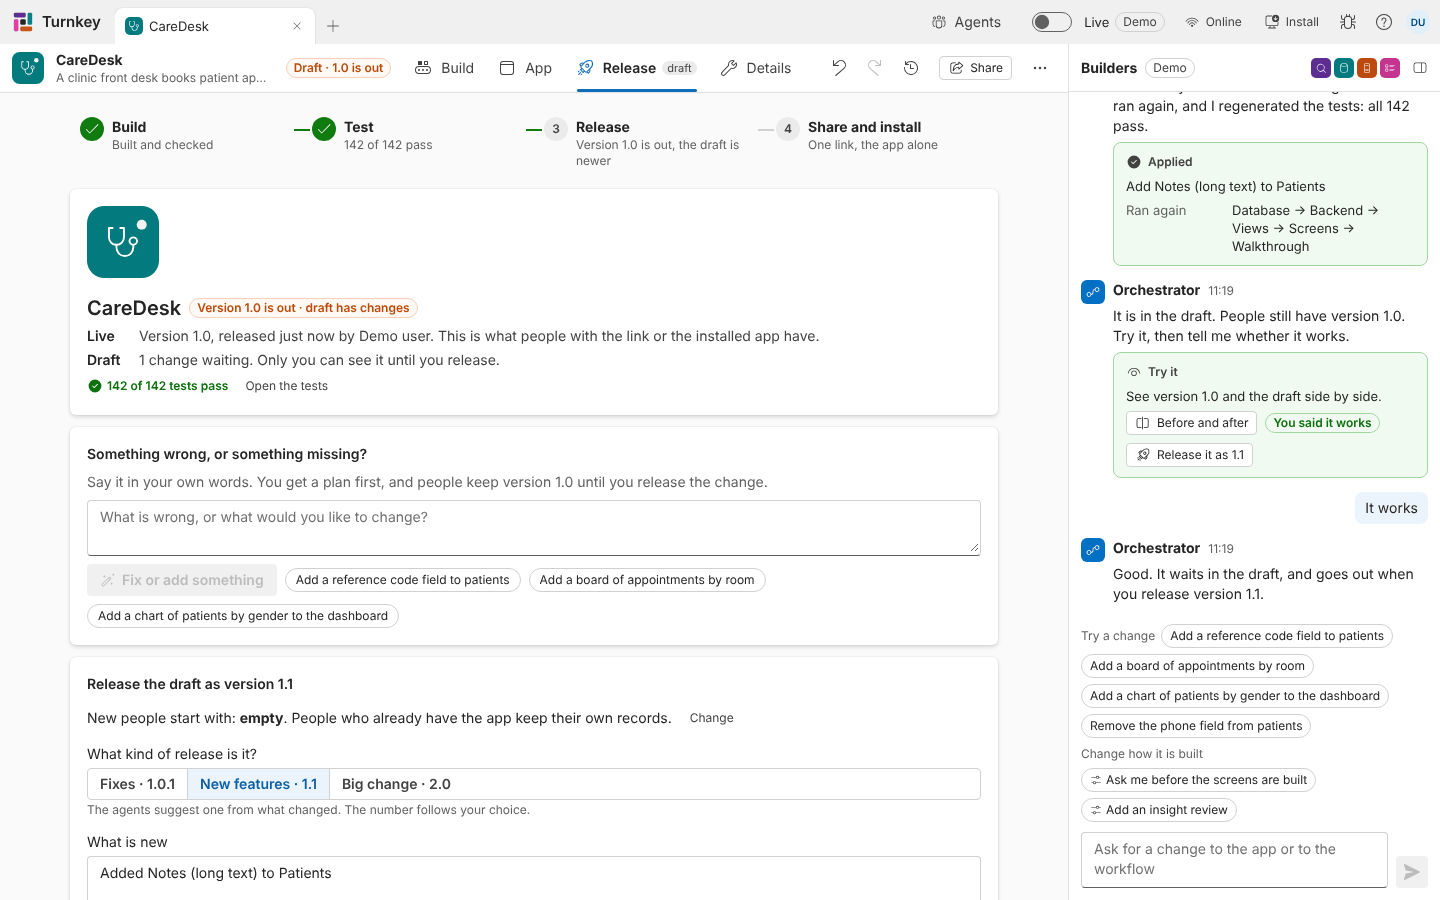
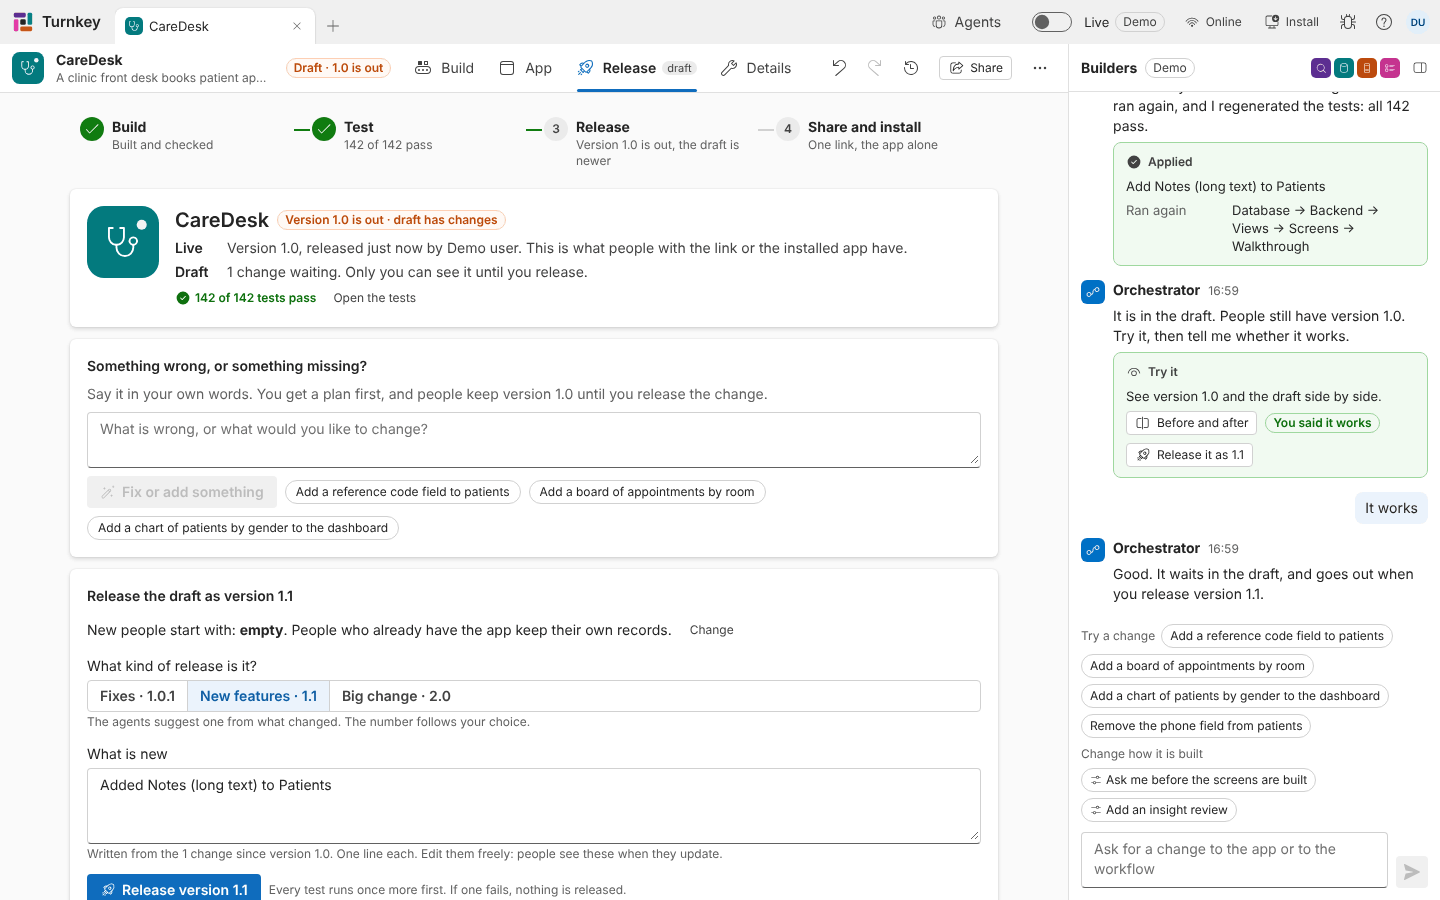
Submission docs and pictures cover changing and releasing again
README, demo video script and submission checklist now show Change something on the finished build,
the change box before 1.0, and Release again without changes. Guided screenshots retaken, plus a new
release-again picture. readme-media.mjs: ONLY=guided now copies its pictures into docs/images.

Claude-Session: https://claude.ai/code/session_01SPhXm6HBwMcyjUc3MWNpJW

diff --git a/README.md b/README.md
@@ -3,7 +3,8 @@
 Describe the app your work needs in one sentence. Turnkey asks you a few questions, shows you a plan in plain words,
 and builds the app only when you press **Build it**: a team of agents makes its lists, rules, screens and tests, checks
 each other's work, and hands it over as a working app with its own welcome for each person who uses it. After the
-first release you say what is wrong or missing, get a plan first, and release the fix as the next version.
+first build you can say what is wrong or missing at any time, get a plan first, and release the change as the next
+version.
 Solo entry for the SSI Agent-A-Thon 2026.
 
 **Live app:** https://turnkey-bay.vercel.app/ (no login; **Demo** replays saved builds and calls no model)
@@ -24,13 +25,16 @@ doctors` and press Enter. (With **Live** off in the title bar this replays the s
 3. **The plan.** Who uses it, what it keeps, how an appointment moves, who can see and do what, and which agents will
    build it. Nothing is built until you press **Build it**.
 4. **The build.** The Build tab shows one line per step and the agent doing it, turning from Working to Done. One
-   part is sent back by the checks and fixed. All 142 checks pass.
+   part is sent back by the checks and fixed. All 142 checks pass. **Change something** beside Open the app takes you
+   straight to the change box, before or after the first release.
 5. **First use.** Open the **App** tab and sign in as Sara Malik: the app welcomes her as a receptionist, lists what
    she can do, and offers a one-minute tour. The made-up records are marked **Demo**; **Remove demo data** empties
    the lists in one step (and can be undone).
 6. **Release and fix.** On **Release**, release version 1.0. Under "Something wrong, or something missing?", type or
    pick **Add a notes field to patients**. You get a plan first, the change waits in a draft that only you see, and
-   after **It works** you release it as version 1.1. People with the link keep 1.0 until then.
+   after **It works** you release it as version 1.1. People with the link keep 1.0 until then. The Release page
+   always offers the next version: with nothing changed it explains how, and **Release again without changes** asks
+   only for a reason.
 
 <table>
   <tr>
@@ -42,7 +46,7 @@ doctors` and press Enter. (With **Live** off in the title bar this replays the s
     <td><em>The plan in plain words. Nothing is built until the owner presses Build it.</em></td>
   </tr>
   <tr>
-    <td><img src="docs/images/build-steps.png" alt="CareDesk is built: seven steps, each with its agent and what it made, all Done, 142 checks pass, and the agents' cards in the chat"></td>
+    <td><img src="docs/images/build-steps.png" alt="CareDesk is built: seven steps, each with its agent and what it made, all Done, 142 checks pass, Open the app and Change something, and the agents' cards in the chat"></td>
     <td><img src="docs/images/first-use.png" alt="The built CareDesk app: a welcome for Sara, the receptionist, with what she can do, Book your first appointment and Show me around, above a demo data bar with Remove demo data"></td>
   </tr>
   <tr>
@@ -56,6 +60,14 @@ doctors` and press Enter. (With **Live** off in the title bar this replays the s
   <tr>
     <td><em>A change after 1.0 goes to a draft. The owner tries it, says it works, and picks the kind of release.</em></td>
     <td><em>Every release keeps its tests and notes, and the owner can go back to an earlier one.</em></td>
+  </tr>
+  <tr>
+    <td><img src="docs/images/release-again.png" alt="The Release page after version 1.1 with nothing in the draft: a Release a new version card that says how to get to 1.1.1 or 1.2, with Release again without changes, above Share and install and the Versions list"></td>
+    <td><img src="docs/images/demo-data-removed.png" alt="The built CareDesk app after Remove demo data: the bar says the lists are empty and ready for real records, with Undo"></td>
+  </tr>
+  <tr>
+    <td><em>The owner can always release again. With nothing changed, the page says how to get to the next version.</em></td>
+    <td><em>Demo data goes in one step, and the app is ready for real records.</em></td>
   </tr>
 </table>
 
@@ -178,7 +190,9 @@ _The Bid room of the built BidDesk app, with the three agents' verdict for one t
 3. Read the plan: three kinds of people, three lists with their fields, six stages, a table of who can see and do
    what, and the agents that will build it. Press **Build it**.
 4. The **Build** tab lists seven steps with the agent of each. The List builder's first attempt is sent back and fixed,
-   the Access checker leaves one suggestion in chat, and all 142 checks pass. **Show how it was built** opens the same run as a workflow canvas, timeline, log and meeting.
+   the Access checker leaves one suggestion in chat, and all 142 checks pass. **Show how it was built** opens the same
+   run as a workflow canvas, timeline, log and meeting; **Change something** opens the change box on Release, which
+   works before version 1.0 too.
 5. Open **App**, sign in as Sara Malik (receptionist). Her welcome lists what she can do; **Show me around** is a
    four-stop tour. Pick someone else under **Preview as** to see the welcome for their job. **Remove demo data**
    empties the lists in one step, and the tests still pass; **Undo** brings the records back.
@@ -186,7 +200,8 @@ _The Bid room of the built BidDesk app, with the three agents' verdict for one t
    press **Add a notes field to patients**. The Orchestrator says it is a new feature, shows a plan, and builds it
    only after **Go ahead**. The change waits in a draft: compare **Before and after**, press **It works**, then
    **Release it as 1.1**. The release offers Fixes 1.0.1, New features 1.1 or Big change 2.0, and the Versions list
-   keeps both releases with **Go back to this**.
+   keeps both releases with **Go back to this**. Above them, "Release a new version" explains what comes next, and
+   **Release again without changes** puts out 1.1.1 once you give a reason.
 
 **Part 2: the agents' teamwork in detail (about three minutes).**
 
@@ -226,7 +241,8 @@ session is capped at 40 model calls.
   skips the ones it does not need. Each built app opens with a welcome and a short tour for each kind of person, demo
   data that is marked and can be removed or added back, and empty screens that say what to do first. After a release,
   "Something wrong, or something missing?" gives a plan, a draft only the owner sees, a try-it step and the next
-  version (1.0.1, 1.1 or 2.0).
+  version (1.0.1, 1.1 or 2.0). The change box is there before the first release too, the finished build has a
+  **Change something** button, and the owner can always release again.
 - **Workspace:** a Build tab that opens on a plain list of steps (one row for each job and the agent that does it),
   with the workflow canvas, timeline, log and meeting view behind "Show how it was built"; edits to fields and the look on the canvas that
   re-run only the stations they touch; Agents panel and a "How it works" page; chat sidebar with the
@@ -258,9 +274,9 @@ the cheaper model tier. `/api/health` shows the calls and the spend so far.
 
 ## Submission summary
 
-> Turnkey turns one sentence into a working business app. A Planner agent asks a few questions and shows a plain-words plan; once the owner approves, code picks the team (lists, rules, views, screens, tests, access) and a LangGraph workflow streams every step over AG-UI. Code checks each handoff and sends failed work back; failing tests go back for repair. Each app opens with a welcome per role and removable demo data. After release 1.0, a fix gets a plan, a draft and release 1.1. Built apps can carry agent teams that search public sources. Demo mode needs no model.
+> Turnkey turns one sentence into a working business app. A Planner agent asks a few questions and shows a plain-words plan; once the owner approves, code picks the team (lists, rules, views, screens, tests, access) and a LangGraph workflow streams every step over AG-UI. Code checks each handoff and sends failed work back; failing tests go back for repair. Each app opens with a welcome per role and removable demo data. Any later change gets a plan and a draft, then ships as 1.1. Built apps can carry agent teams that search public sources. Demo mode needs no model.
 
-(Counted: 570 characters.) Evidence for each rule and criterion: [`docs/hackathon/criteria.md`](docs/hackathon/criteria.md).
+(Counted: 568 characters.) Evidence for each rule and criterion: [`docs/hackathon/criteria.md`](docs/hackathon/criteria.md).
 
 ## More documents
 

diff --git a/docs/hackathon/demo-video.md b/docs/hackathon/demo-video.md
@@ -26,11 +26,11 @@ Times are targets. The voice-over is written to be read at a normal pace; cut li
 | 1   | 0:00–0:10 | Welcome screen. Hold on the headline, then press **Describe your own**.                                                                                                                                                                            | "Most teams need small business apps: a clinic desk, a leave form, a helpdesk. Turnkey builds one from one sentence, and you don't need to know how apps are made."                                 | Business value                |
 | 2   | 0:10–0:25 | Type `A clinic books appointments for patients with its doctors`, press Enter. The steps bar shows Questions; the Planner's card asks "Should the front desk be able to read visit notes?" with the usual choice marked.                           | "First, the Planner agent says what it understood and asks only what changes the app. Each question has a usual choice, and I can skip any of them."                                                | Creativity, human in the loop |
 | 3   | 0:25–0:40 | Pick the usual choice, then "Yes, add demo data". The plan fills in: who uses it, what it keeps, how an appointment moves, who can see and do what, the agents that will build it.                                                                 | "The plan is in plain words: three kinds of people, three lists, six stages, and a table of who can see what. Code picks the team from the plan, and nothing is built until I say so."              | Multi-agent orchestration     |
-| 4   | 0:40–1:00 | Press **Build it**. The seven steps turn from Working to Done, each with its agent; the chat fills with their cards. Hold on "CareDesk is built. Every check passes."                                                                              | "Each agent does one job and hands it on. Code checks every hand-off: here the List builder's first try was sent back and fixed. All 142 checks pass before the app is called ready."               | Agents check each other       |
+| 4   | 0:40–1:00 | Press **Build it**. The seven steps turn from Working to Done, each with its agent; the chat fills with their cards. Hold on "CareDesk is built. Every check passes." and its **Open the app** and **Change something** buttons.                   | "Each agent does one job and hands it on. Code checks every hand-off: here the List builder's first try was sent back and fixed. All 142 checks pass before the app is called ready."               | Agents check each other       |
 | 5   | 1:00–1:15 | **App** tab, sign in as Sara Malik. The welcome: "You are here as Receptionist", what she can do, **Show me around**. Press it and step through two stops of the tour.                                                                             | "The app greets each person for their own job and shows them around. The doctor and the manager get their own welcome."                                                                             | Completeness, end to end      |
 | 6   | 1:15–1:25 | The demo data bar: **Remove demo data**, confirm. The bar says "Demo data removed. The lists are empty and ready for real records."                                                                                                                | "It starts with made-up records to try, marked Demo. One press clears them, and the app is ready for real work."                                                                                    | Business value                |
 | 7   | 1:25–1:45 | **Release**: release version 1.0. Under "Something wrong, or something missing?", press **Add a notes field to patients**. The plan card ("New feature, becomes version 1.1"), then **Go ahead**; the Try it card appears.                         | "After the first release, I just say what's missing. I get a plan first, the change goes into a draft only I can see, and people keep version 1.0 meanwhile."                                       | Technical execution           |
-| 8   | 1:45–1:55 | **It works**, **Release it as 1.1**. The release choice Fixes 1.0.1, New features 1.1, Big change 2.0; release. Scroll to Versions: 1.1 current, 1.0 with Go back to this.                                                                         | "When it works, it goes out as 1.1. Every version keeps its tests, and I can go back."                                                                                                              | Live product                  |
+| 8   | 1:45–1:55 | **It works**, **Release it as 1.1**. The release choice Fixes 1.0.1, New features 1.1, Big change 2.0; release. Scroll to Versions: 1.1 current, 1.0 with Go back to this, and above them the "Release a new version" card.                        | "When it works, it goes out as 1.1. Every version keeps its tests, I can go back, and the next change can start whenever I like."                                                                   | Live product                  |
 | 9   | 1:55–2:05 | Second window: press **Try a sample**, take the usual choice, **Build it**. The bidding desk builds and stops once after the rules: press **Looks right, continue**. Then press **Show how it was built**: the workflow canvas, each node Checked. | "Here's the same machinery in more detail. Behind the steps is a LangGraph workflow I can edit, with a check gate after every agent."                                                               | Multi-agent orchestration     |
 | 10  | 2:05–2:20 | The Tests node shows "try 2"; click it. Run 1, 1 of 170 failed; repaired; Run 2, all passed. Then **Meeting**: a tile per agent.                                                                                                                   | "The Tester caught the Rules builder letting a bid manager delete a tender, which the brief forbids. It was repaired and every test passes. The meeting view shows the one at work as the speaker." | Each agent's steps visible    |
 | 11  | 2:20–2:40 | **App**, sign in as Sana Malik, **Bid room**: pick **Port fleet tracking**, **Run the agents**. Qualifier, Pricing, the pause on "Your turn"; Continue; Red team verdict.                                                                          | "Apps can have agent teams of their own. The Qualifier scores the tender, Pricing works out three prices, the run stops so a person can add a condition, and the Red team gives the verdict."       | Creativity, human in the loop |

diff --git a/docs/hackathon/submission.md b/docs/hackathon/submission.md
@@ -4,6 +4,14 @@ What goes into the Agent-A-Thon portal, and what to check before pressing submit
 **Mon 30 Nov 2026, 2:00 PM PKT**. The latest submitted version is the one evaluated, so submit early and again after
 the final release.
 
+## On the portal, step by step
+
+1. Open https://ssi-ai-hackathon.vercel.app/ and go to **Submit**. Sign in with the SSI email you registered with.
+2. Paste the three fields below. Paste the summary from the box, not from a rendered page, so nothing is reformatted.
+3. Submit. The portal takes resubmissions until the deadline and judges the latest one, so submit once now and again
+   after the last release.
+4. Keep the live site up and leave the model key in place until winners are announced (about mid-December).
+
 ## The three fields
 
 | Field             | Value                                   |
@@ -14,20 +22,20 @@ the final release.
 
 ## Summary
 
-Copy the text inside the box. It is 570 characters, counted with spaces. The same text is in the README and in
+Copy the text inside the box. It is 568 characters, counted with spaces. The same text is in the README and in
 the project's `submission/summary.md`.
 
 ```text
-Turnkey turns one sentence into a working business app. A Planner agent asks a few questions and shows a plain-words plan; once the owner approves, code picks the team (lists, rules, views, screens, tests, access) and a LangGraph workflow streams every step over AG-UI. Code checks each handoff and sends failed work back; failing tests go back for repair. Each app opens with a welcome per role and removable demo data. After release 1.0, a fix gets a plan, a draft and release 1.1. Built apps can carry agent teams that search public sources. Demo mode needs no model.
+Turnkey turns one sentence into a working business app. A Planner agent asks a few questions and shows a plain-words plan; once the owner approves, code picks the team (lists, rules, views, screens, tests, access) and a LangGraph workflow streams every step over AG-UI. Code checks each handoff and sends failed work back; failing tests go back for repair. Each app opens with a welcome per role and removable demo data. Any later change gets a plan and a draft, then ships as 1.1. Built apps can carry agent teams that search public sources. Demo mode needs no model.
 ```
 
-Every claim in it is on `main` and in release v0.5.0: the Planner's questions and plan (`src/workspace/planner.ts`,
+Every claim in it is on `main` and in release v0.5.3: the Planner's questions and plan (`src/workspace/planner.ts`,
 `src/workspace/interview.ts`, `src/shared/plan`), the team picked by code from the plan (`teamFor` in
 `src/shared/plan/team.ts`), the build held to the plan (`src/shared/plan/build.ts`), the workflow graph
 (`src/platform/orchestrator`), AG-UI streaming (`src/platform/model-client.ts`, `src/server/agui`), the checks and
 send-backs (`src/workspace/line.ts`), the Tester's repair (`src/workspace/tester.tsx`), the welcome for each role
 (`src/workspace/firstrun.tsx`), removable demo data (`src/workspace/demo-data.ts`), fixes after a release
-(`src/workspace/improve.tsx`, `src/workspace/release.tsx`), team lookups (`src/server/graph/team/connector-tools.ts`)
+(`src/workspace/improve.tsx`, `src/workspace/release-ui.tsx`, `src/workspace/steps-view.tsx`), team lookups (`src/server/graph/team/connector-tools.ts`)
 and Demo with no model.
 
 ## Before pressing submit
